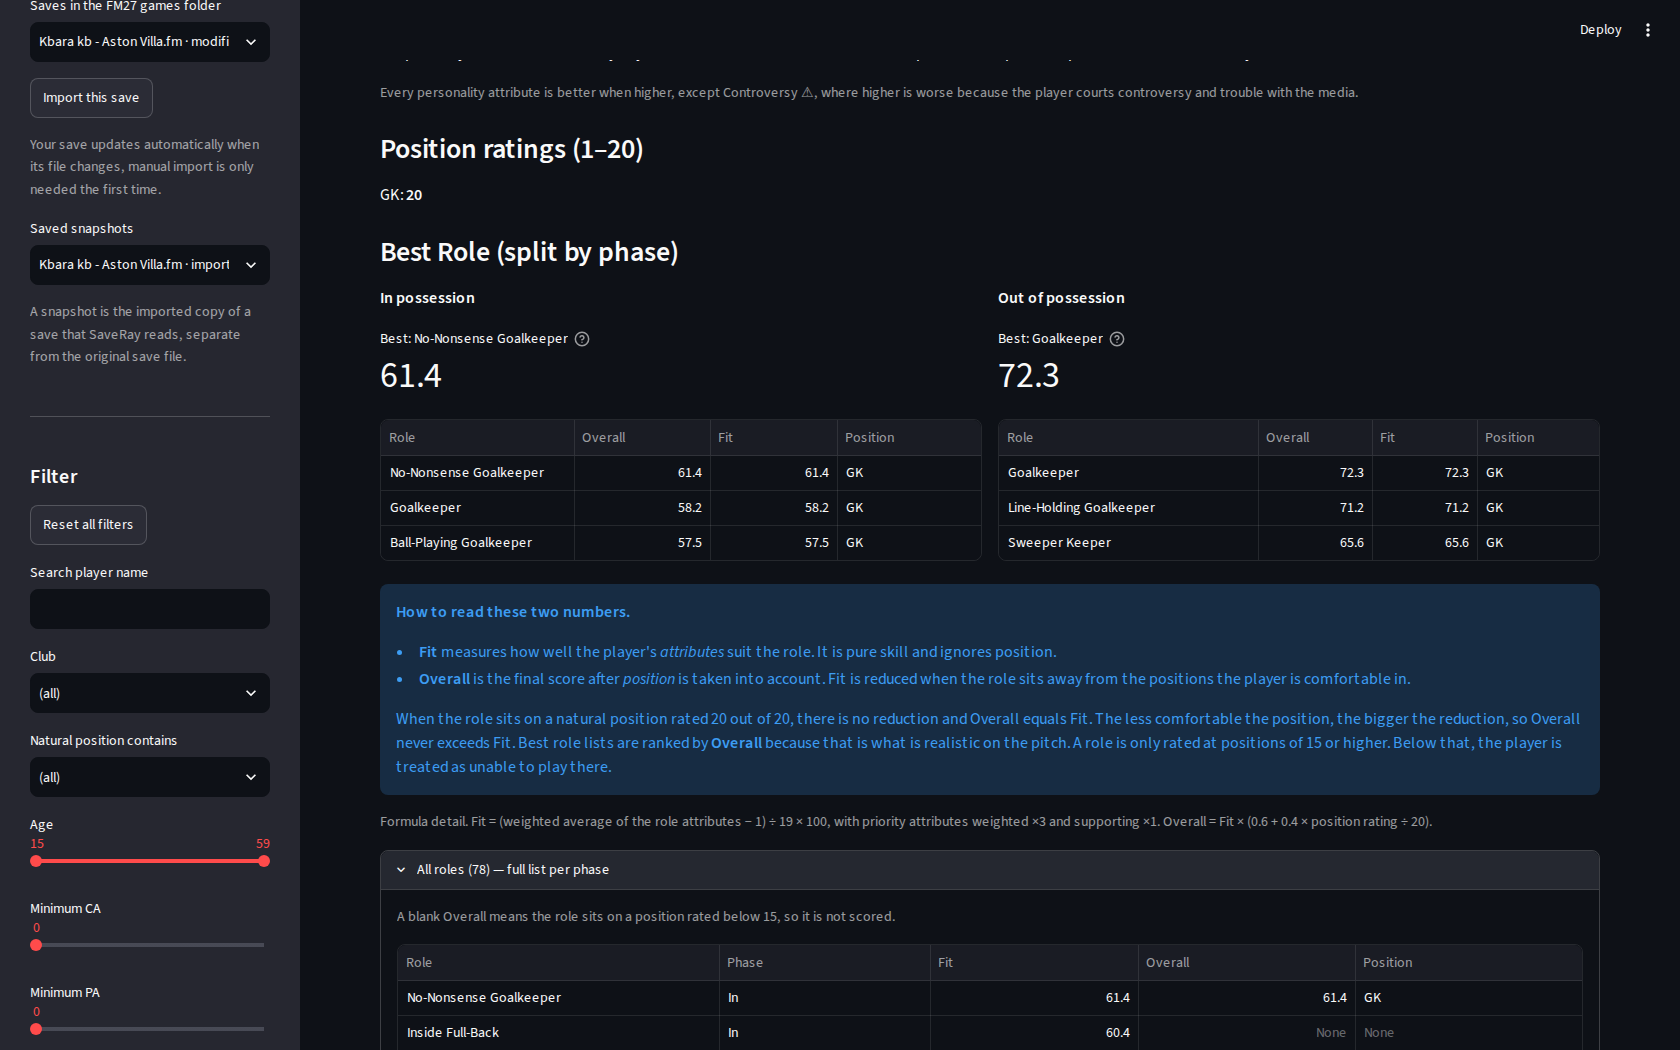
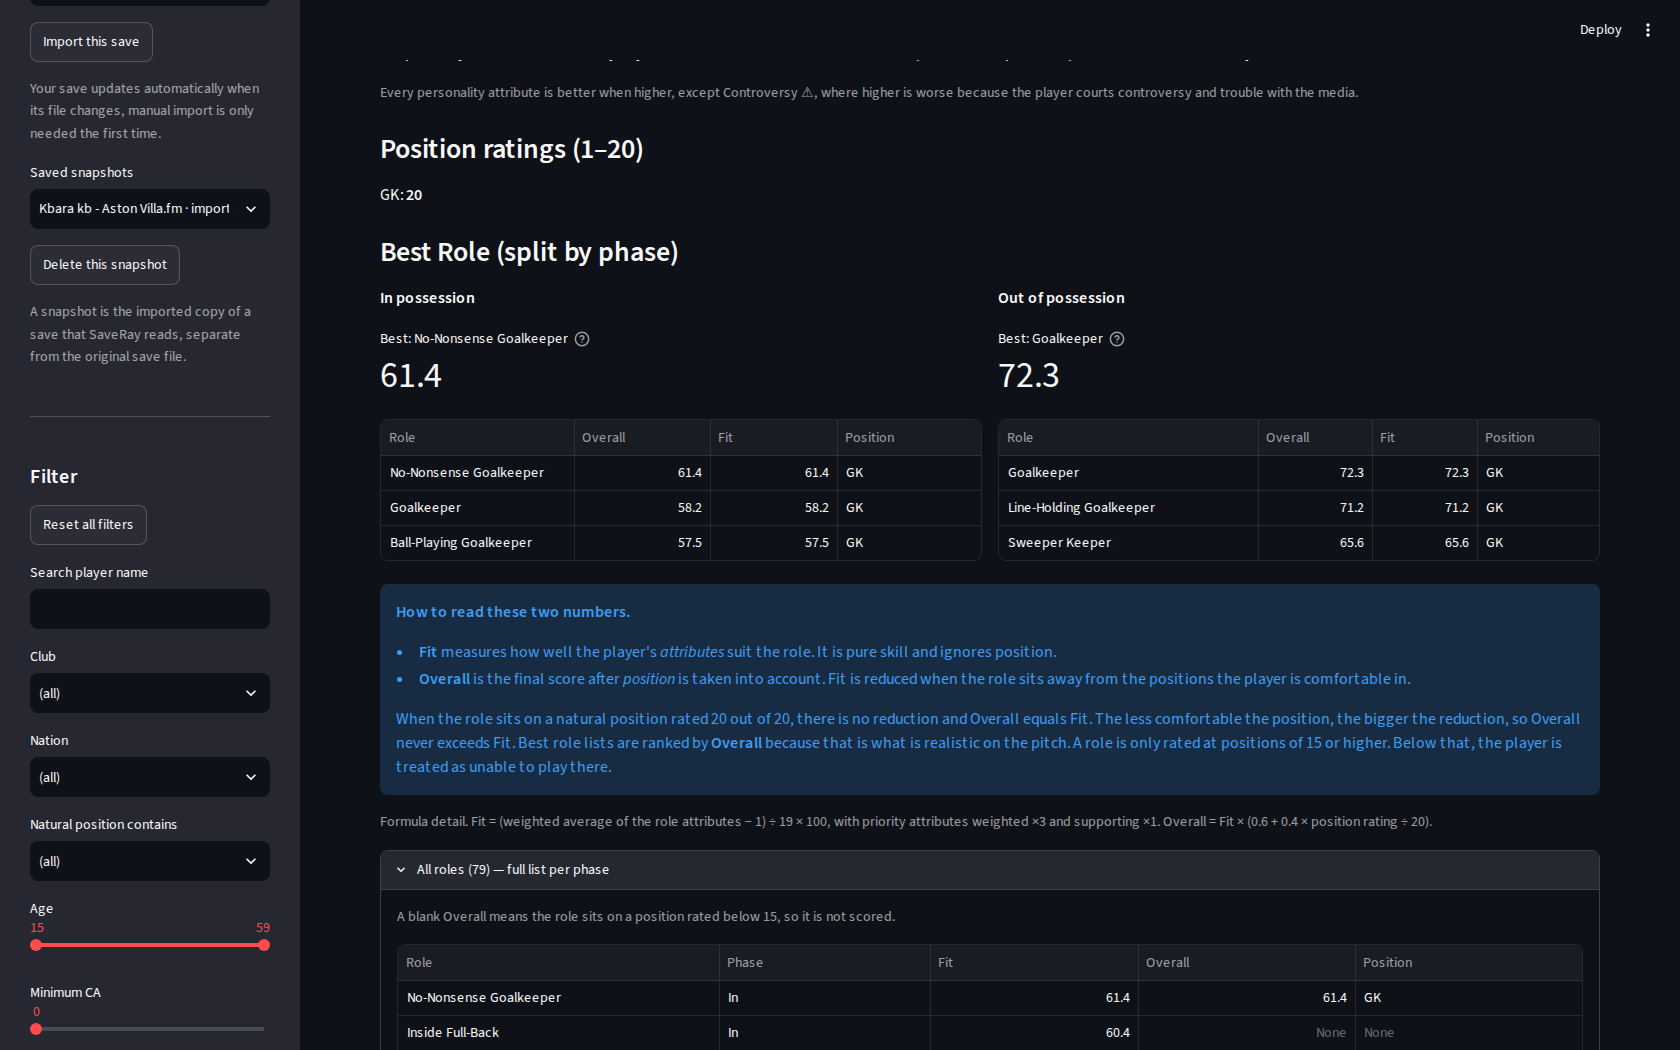
Update the docs list and refresh the all-roles screenshot for the 79-role catalog

Changed region(s): [[0.0, 0.0, 0.1857, 0.2743], [0.0, 0.7619, 0.1857, 0.9143], [0.031, 0.701, 0.0929, 0.7314]]

diff --git a/docs/README.md b/docs/README.md
@@ -7,4 +7,4 @@ The captures shown in the main README live in this folder.
 - `screenshot-best-role.png` — the Best Role section
 - `screenshot-role-filter.png` — a role filter applied to the table
 - `screenshot-goalkeeper.png` — a goalkeeper profile
-- `screenshot-all-roles.png` — the full list of all 78 roles
+- `screenshot-all-roles.png` — the full list of all 79 roles
